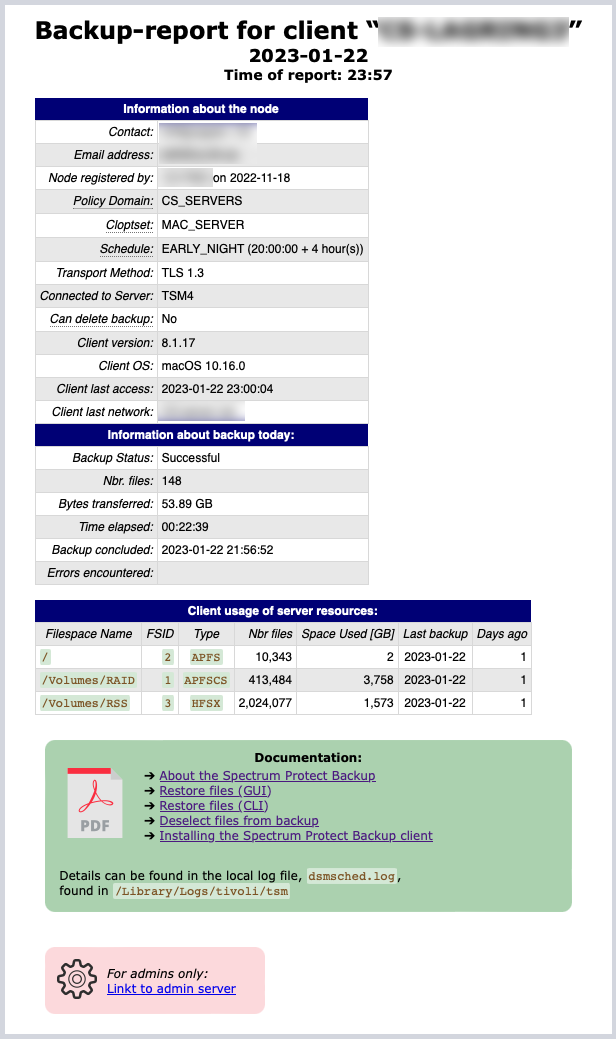
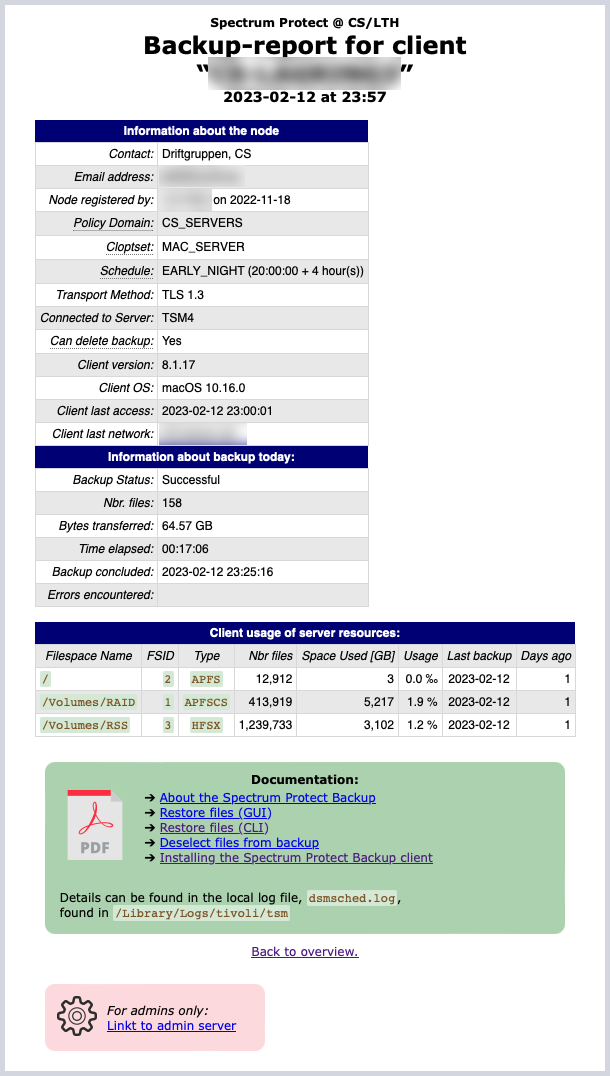
More fixing with the error report

Changed region(s): [[0.0311, 0.0, 0.9656, 0.9856], [0.4049, 0.924, 0.4361, 0.9856]]

diff --git a/report_one_end.html b/report_one_end.html
@@ -1,12 +1,8 @@
       </tbody>
     </table>
   </section>
-</tbody>
-</table>
-</section>
 <p>&nbsp;</p>
 <section>
-  <p><a href="MAIN_URL">Back to overview.</a></p>
   <div id="box-documentation">
     <h4>Documentation:</h4>
     <div class="flexbox-container">
@@ -32,19 +28,27 @@
       </table>
     </div>
   </div>
+  <p><a href="MAIN_URL">Back to overview.</a></p>
 </section>
 <footer>
   <p>&nbsp;</p>
-  <div id="box1">
-    <table>
-      <tr>
-        <td><p><img src="https://fileadmin.cs.lth.se/intern/backup/cs/settings_icon.svg" width="40" alt="Settings-icon">&nbsp;&nbsp;</p></td>
-        <td><p align="left"><em>For admins only:</em><br>
-        <a href="OC_URL" target="_blank" rel="noopener noreferrer">Linkt to admin server</a></p>
-        </td>
-      </tr>
-    </table>
-  </div>
+	<div class="flexbox-container">
+		<div id="box1">
+			<table>
+				<tr>
+					<td><p><img src="https://fileadmin.cs.lth.se/intern/backup/cs/settings_icon.svg" width="40" alt="Settings-icon">&nbsp;&nbsp;</p></td>
+					<td><p align="left"><em>For admins only:</em><br>
+						<a href="OC_URL" target="_blank" rel="noopener noreferrer">Linkt to admin server</a></p>
+					</td>
+				</tr>
+			</table>
+		</div>
+		<div id="box2">
+			<p>Report time:</p>
+			<p>REPORT_DATE at REPORT_TIME</p>
+			FOOTER_ROW
+		</div>
+	</div>
 </footer>
 </div>
 </body>

diff --git a/errors_head.html b/errors_head.html
@@ -9,12 +9,13 @@
         padding: 2pt 2pt 2pt 2pt;
         background-color: #D8DBE2;
         font-family: Frutiger Lt Std, Frutiger, Verdana, sans-serif;
-        font-size: 11pt;
+        font-size: 10pt;
         text-align: left;
     }
     div.main_page {
         position: relative;
         display: table;
+		white-space: nowrap;
         margin-bottom: 2pt;
         margin-left: auto;
         margin-right: auto;
@@ -24,6 +25,7 @@
         border-style: solid;
         background-color: #FFFFFF;
         text-align: left;
+        min-width: 650px;
     }
     code, kbd, pre, samp {
         font-family: Menlo, Monaco, Consolas, "Courier New", monospace;
@@ -100,7 +102,7 @@
         <section>
 			<div class="flexbox-container">
 				<div id="box-header">
-		            <h3>Spectrum Protect</h3>
+		            <h4>Spectrum Protect</h4>
         		    <h1>Errors encountered</h1>
 		            <h4>DATE at TIME</h4>
 			    </div>

diff --git a/report_one_head.html b/report_one_head.html
@@ -46,6 +46,12 @@ code { padding: 1px 2px; color: #875e29; background-color: #d9ebdb; border-radiu
     padding: 10px;
     width: 200px
 }
+#box2 {
+    border-radius: 10px;
+    margin: 10px;
+    padding: 10px;
+	  vertical-align: middle;
+}
 #explanations {
     border-collapse: separate;
 }
@@ -93,9 +99,8 @@ box-shadow: 3px 3px 4px rgba(0,0,0, .65);
 <body>
 <div class="main_page">
   <header>
-    <h1>Backup-report for client “CLIENT_NAME”</h1>
-    <h2>REPORT_DATE</h2>
-    <h3>Time of report: REPORT_TIME</h3>
+    <h4>Spectrum Protect</h4>
+    <h1>Backup-report for client<br>“CLIENT_NAME”</h1>
   </header>
   <section>
     <p>&nbsp;</p>

diff --git a/report_end.html b/report_end.html
@@ -53,6 +53,7 @@
   </div>
   <p>&nbsp;</p>
   <p align="right"><i>Time: REPORT_TIME (took REPORT_GENERATION_TIME to generate). Report is generated once per day.</i></p>
+  FOOTER_ROW
   <p>&nbsp;</p>
 </div>
 </body>

diff --git a/README.md b/README.md
@@ -69,6 +69,7 @@ The script *requires* a file, `~/.tsm_secrets.env` or `"$ScriptDirName"/tsm_secr
 | `export SCP_USER=username`                           | ...and user name to log in as (using stored ssh-keys) |
 | `export PUBLICATION_URL="https://com.url.edu/path"`  | URL for the finished report (included in the email) |
 | `export STORAGE_POOL="STORAGE_POOL_1"`               | Given this, size and usage of the Storage Pool will be presented |
+| `export FOOTER="<p align=\"right\"><i>Footer-text</i></p>"` | Some text to present in the very bottom of the page, identifying the information provider |
 
 
 ### Error reporting
